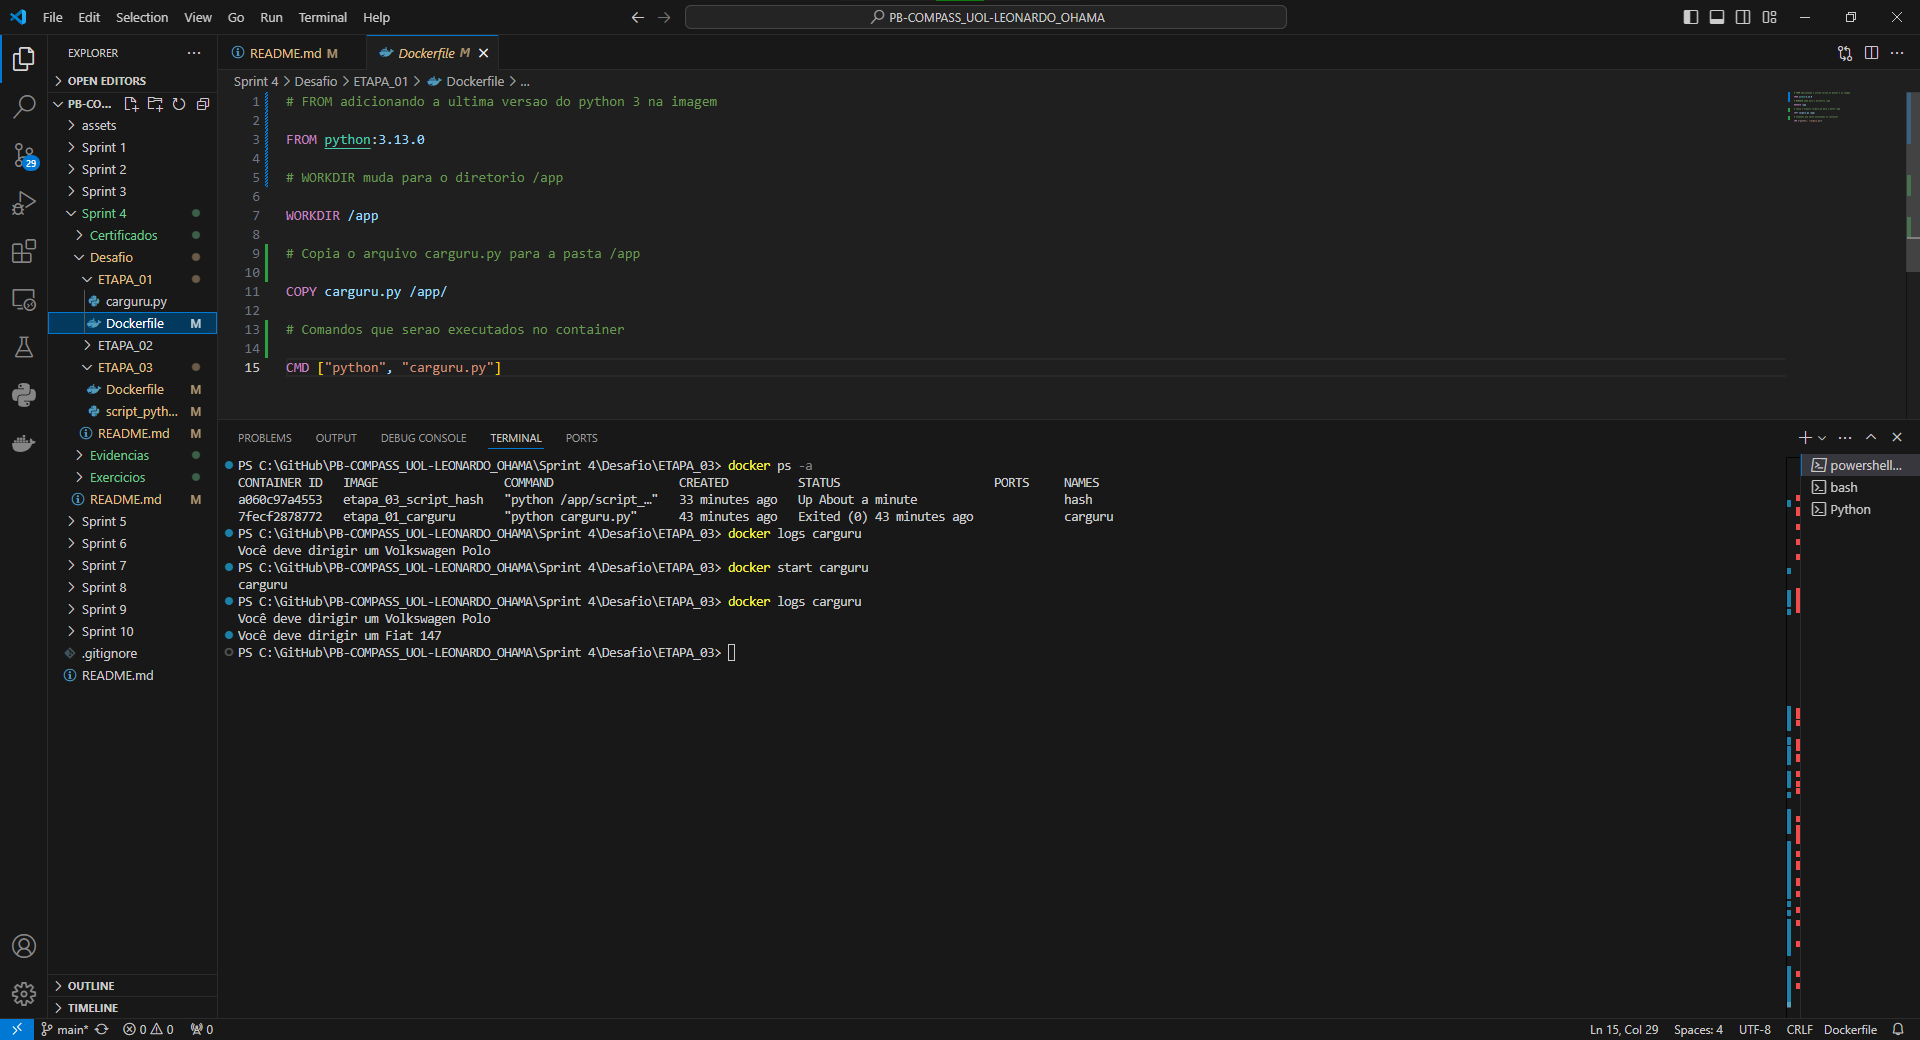
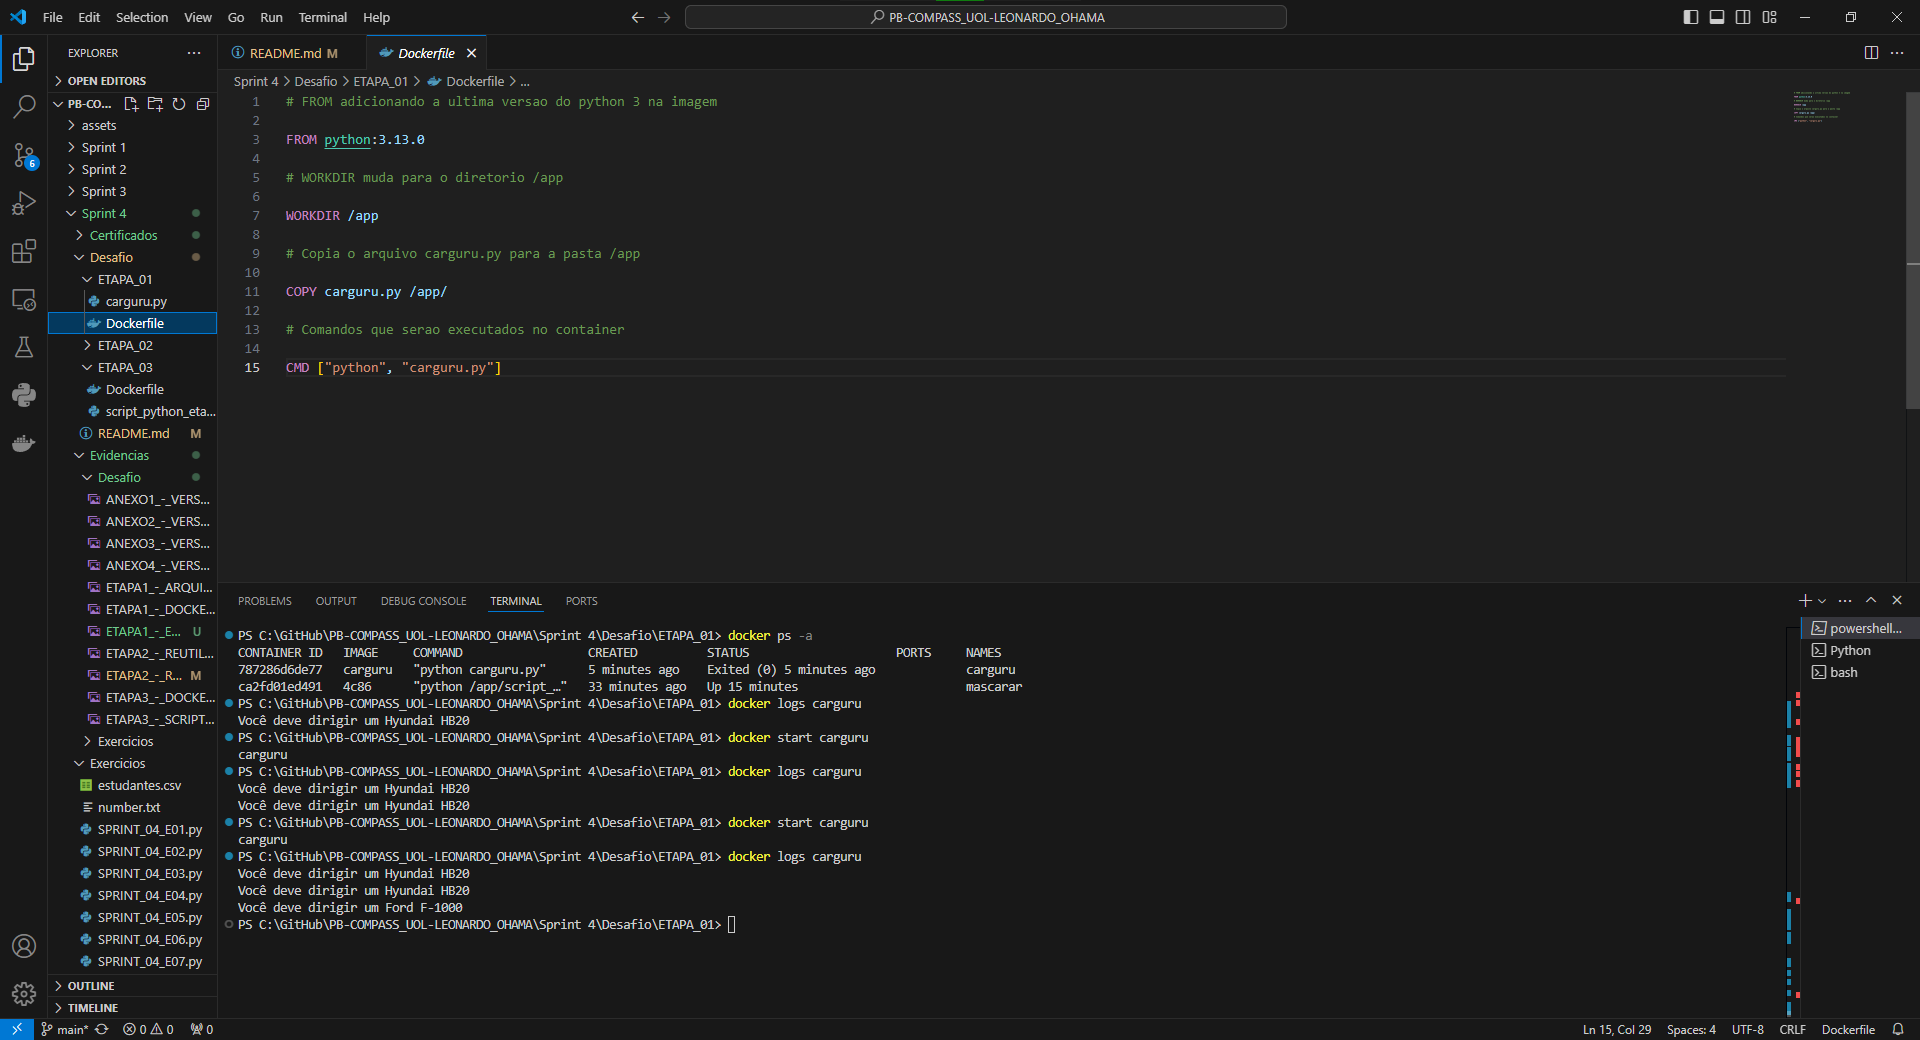
Atualizacao Sprint 04

diff --git a/Sprint 4/Desafio/README.md b/Sprint 4/Desafio/README.md
@@ -16,8 +16,6 @@
 
     III.  [Etapa 3 - Dockerfile e script Python que gera um hashcode com algoritmo SHA-1 por meio de input](#Etapa3)
 
-    IV.   [Observações](#Observacoes)
-
 2. [Anexos](#anexos)
 
     I.    [Anexo 1 - Versão VSCode](#Anexo1)
@@ -50,6 +48,10 @@ Explicação do desenvolvimento de containers com o Docker em programas Python e
 
     ![Evidência](../Evidencias/Desafio/ETAPA1_-_DOCKERFILE_ETAPA01.png)
 
+    Para a criação da imagem, primeiro é colocado no diretório certo que nesse caso é a ETAPA_01 depois é feito o comando no terminal WSL que é o "docker build -t carguru ." após criado a imagem criamos um container com o "docker run carguru" que irá imprimir exatamente o resultado do arquivo carguru.py que é uma escolha aleatória de uma lista de carros, que foi o "Você deve dirigir um Hyundai HB20".
+
+    ![Evidência](../Evidencias/Desafio/ETAPA1_-_EXECUCAO_DOCKERFILE_ETAPA01.png)
+
 [**Voltar ao Sumário**](#sumário)
 
 <a id="Etapa2"></a>
@@ -74,15 +76,9 @@ Explicação do desenvolvimento de containers com o Docker em programas Python e
 
     ![Evidência](../Evidencias/Desafio/ETAPA3_-_DOCKERFILE_ETAPA03.png)
 
-[**Voltar ao Sumário**](#sumário)
+    Agora no terminal, é utilizado novamente o comando "docker build -t mascarar-dados ." que cria a imagem com o nome mascarar-dados e em seguida é criado e executado o novo container a partir da imagem que foi acabada de ser criada, a flag "-it" é usada, pois existe input no programa, fazendo assim o programa ser interativo e ter a necessidade de utilizar ela, caso não seja utilizado essa flag ocorre um erro. Os resultados são: input = teste, hash = 2e6f9b0d5885b6010f9167787445617f553a735f; input = string, hash = ecb252044b5ea0f679ee78ec1a12904739e2904d.
 
-<a id="Observacoes"></a>
-
-9. ... [Observações](#Observacoes)
-
-    I. No gráfico de top 5 instalações da [etapa 4](#Etapa4), talvez o ideal seria mudar alguns critérios ou pegar os números reais de instalação, porque as barras do gráfico ficaram homegêneas e também há outros dados que têm o mesmo valor ficando só uma amostra dos valores. 
-
-    II.No gráfico que agrupa os aplicativos por categoria da [etapa 5](#Etapa5) talvez seria ideal agrupar os grupos menores para que tivesse uma melhor visualização do gráfico pizza, ou também mudar os critérios.
+    ![Evidência](../Evidencias/Desafio/ETAPA3_-_EXECUCAO_SCRIPT_HASH_ETAPA03.png)
 
 [**Voltar ao Sumário**](#sumário)
 

diff --git a/Sprint 4/README.md b/Sprint 4/README.md
@@ -397,8 +397,12 @@ O objetivo da função pares_ate é retornar um generator para os valores pares 
 
 # Certificados
 
-[AWS Partner Cloud Economics (Portuguese)](<Certificados/AWS Partner Cloud Economics (Portuguese).pdf>)
+[AWS Partner Credenciamento (Tecnico) (Portugues) AWS Partner Accreditation (Tecnical) (Portugues)](<Certificados/AWS Partner Credenciamento (Tecnico) (Portugues) AWS Partner Accreditation (Tecnical) (Portugues).pdf>)
 
-![AWS Partner Cloud Economics (Portuguese)](<Certificados/AWS Partner Cloud Economics (Portuguese).png>)
+![AWS Partner Credenciamento (Tecnico) (Portugues) AWS Partner Accreditation (Tecnical) (Portugues)](<Certificados/AWS Partner Credenciamento (Tecnico) (Portugues) AWS Partner Accreditation (Tecnical) (Portugues).png>)
+
+[Fundamentos Tecnicos Da AWS (Portugues) AWS Tecnical Essentials (Portuguese)](<Certificados/Fundamentos Tecnicos Da AWS (Portugues) AWS Tecnical Essentials (Portuguese).pdf>)
+
+![Fundamentos Tecnicos Da AWS (Portugues) AWS Tecnical Essentials (Portuguese)](<Certificados/Fundamentos Tecnicos Da AWS (Portugues) AWS Tecnical Essentials (Portuguese).png>)
 
 [**Voltar ao Sumário**](#sumário)
